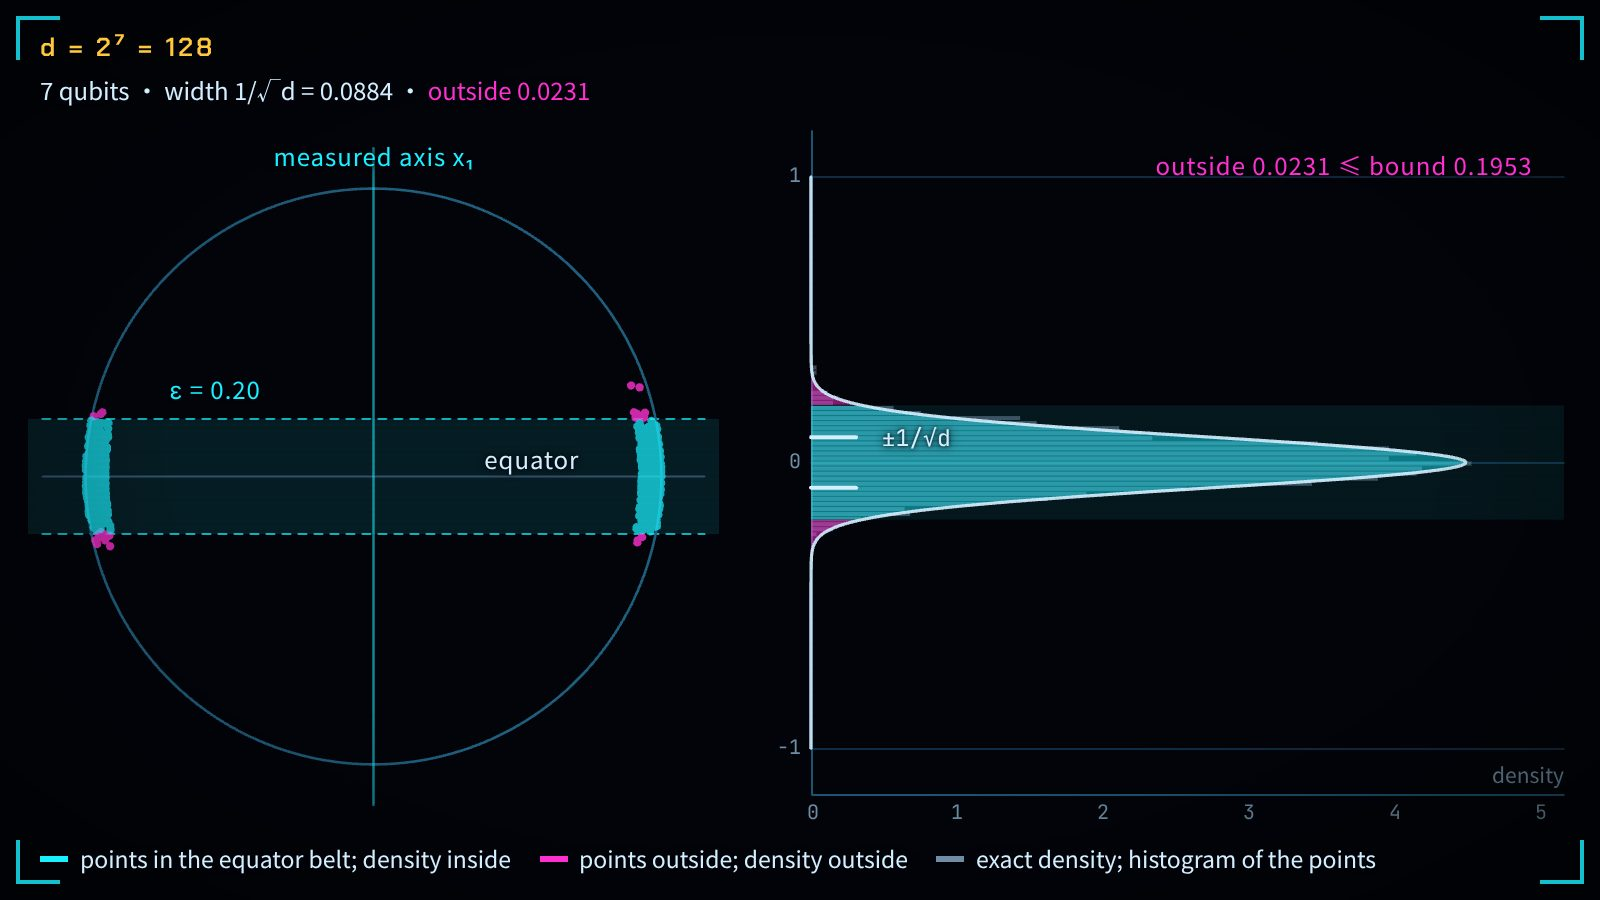
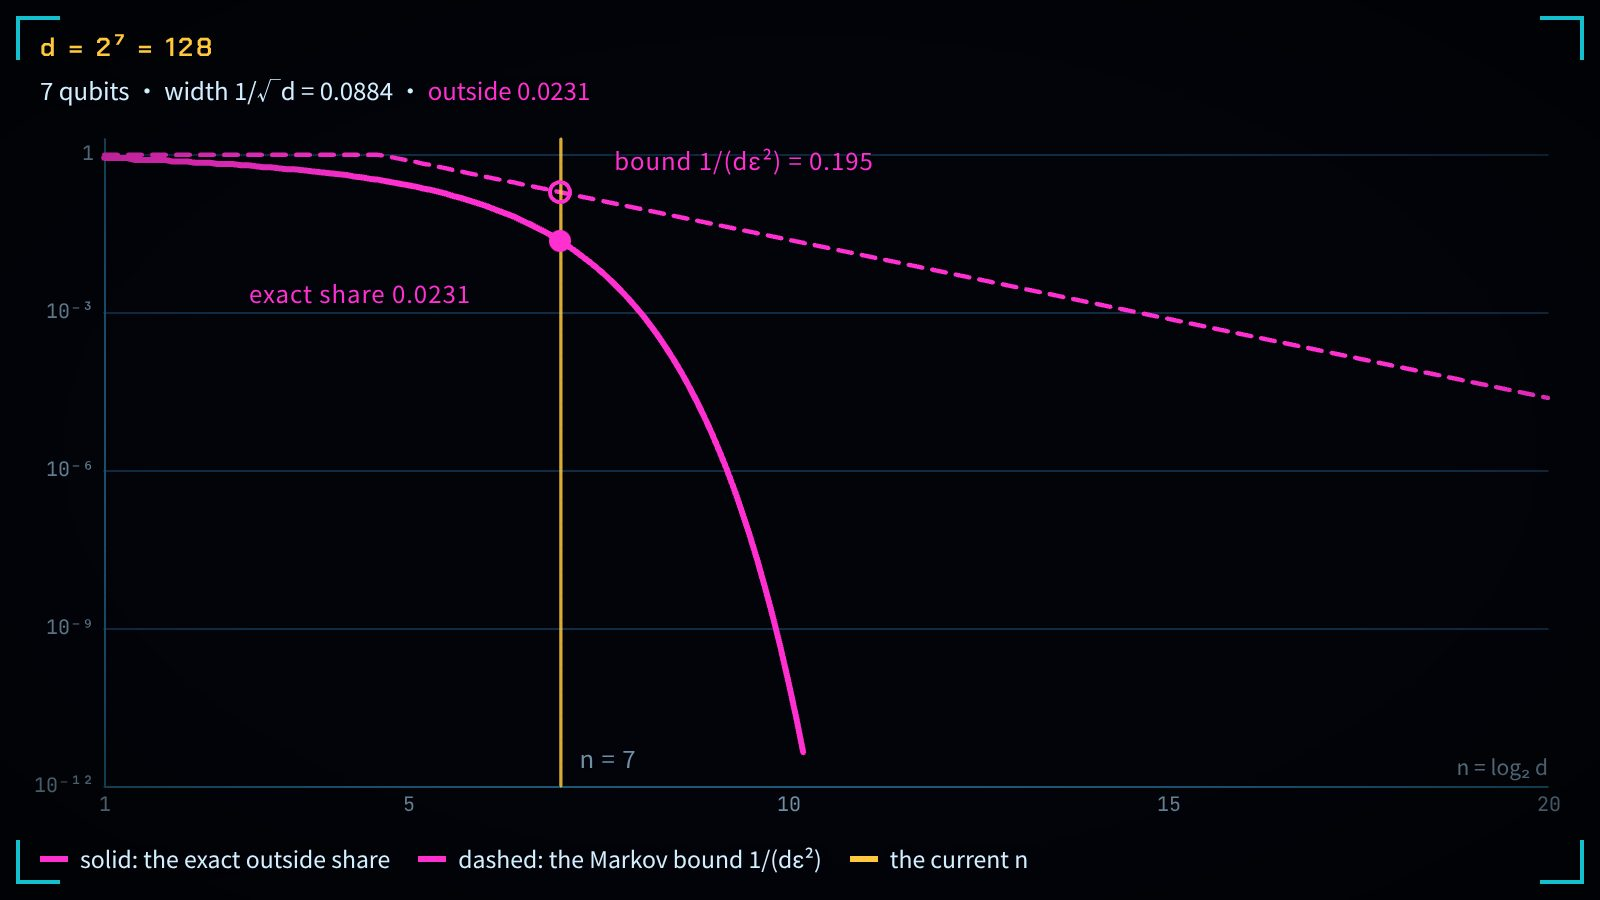
Chapter 12: the Markov card draws the share and the bound against n; one sentence between each pair of equator cards; the halving-spectrum card in place of plateau and tail

diff --git a/books/quantum-geometry/viz/equator-concentration/main.js b/books/quantum-geometry/viz/equator-concentration/main.js
@@ -61,7 +61,7 @@
   }
 
   /* ---------- state and samples ---------- */
-  const S = { t: 4, eps: 0.1, seed: 1 };
+  const S = { t: 4, eps: 0.1, seed: 1, scene: 'crowd' };   // scene: the dots and the density, or the share against n
   let UNI = null;
   function mulberry32(a) { return () => { a |= 0; a = (a + 0x6D2B79F5) | 0; let t = Math.imul(a ^ (a >>> 15), 1 | a); t = (t + Math.imul(t ^ (t >>> 7), 61 | t)) ^ t; return ((t ^ (t >>> 14)) >>> 0) / 4294967296; }; }
   function draw() {
@@ -209,13 +209,40 @@
     }
   }
 
+  /** The "bound" scene: the exact outside share and the Markov bound against n = log₂ d, on a log scale, one line
+      above the other; the amber line is the current n. */
+  const CURVE_Y = [1e-12, 2];
+  function drawCurve(W, H, F) {
+    const b = layout(W, H).c, top = b.y, bottom = H - (b.y + (boxes.side ? b.h : b.h + boxes.p.h + 8)), e = F.eps;
+    const g = kit.plot($('cv'), { x: [1, NMAX], y: CURVE_Y, logY: true, pad: [52, 26, top + 8, Math.max(bottom, 20) + 22], clear: false });
+    const words = !TRV.thumbMode;
+    g.axes({ yTicks: words ? [[1e-12, '10⁻¹²'], [1e-9, '10⁻⁹'], [1e-6, '10⁻⁶'], [1e-3, '10⁻³'], [1, '1']] : [], xTicks: words ? [1, 5, 10, 15, 20] : [], xLabel: words ? L('n = log₂ d', 'n = log₂ d') : '' });
+    const ex = [], bd = [];
+    for (let i = 0; i <= 190; i++) {
+      const n = 1 + 19 * i / 190, d = dOf(n), lo = lnOut(d, e);
+      ex.push([n, lo > Math.log(CURVE_Y[0]) ? Math.exp(lo) : null]); bd.push([n, Math.min(1, 1 / (d * e * e))]);
+    }
+    g.line(bd, P.magenta, { width: 2.2 * TH, dash: [7, 5] });
+    g.line(ex, P.magenta, { width: 3 * TH });
+    const n = F.n, ok = F.lnOut > Math.log(CURVE_Y[0]);
+    g.vline(n, P.amber, { alpha: 0.85, width: 1.6 * TH });
+    g.dot(n, Math.min(1, F.bound), P.magenta, 5 * TH, { ring: true, width: 2 });
+    if (ok) g.dot(n, F.out, P.magenta, 5.5 * TH);
+    if (words) {
+      stage.tag('cvb', [g.X(n), g.Y(Math.min(1, F.bound))], L(`上界 1/(dε²) = ${F.bound < 1e-3 ? share(Math.log(F.bound)) : fix(F.bound, 3)}`, `bound 1/(dε²) = ${F.bound < 1e-3 ? share(Math.log(F.bound)) : fix(F.bound, 3)}`), 'raw mg', { screen: true, dx: 92, dy: -16 });
+      if (ok) stage.tag('cve', [g.X(n), g.Y(F.out)], L(`精确份额 ${share(F.lnOut)}`, `exact share ${share(F.lnOut)}`), 'raw mg', { screen: true, dx: g.X(n) > 260 ? -100 : 78, dy: g.X(n) > 260 ? 26 : 16 });
+      stage.tag('cvn', [g.X(n), g.Y(CURVE_Y[0])], `n = ${fix(n, n % 1 ? 2 : 0)}`, 'raw am', { screen: true, dx: 24, dy: -14 });
+    }
+  }
   const stage = kit.stage3($('stage'), { canvas: $('cv'), rotate: false });
   function drawStage() {
     const cv = $('cv'), W = cv.clientWidth, H = cv.clientHeight, F = facts(), sm = samples();
     boxes = layout(W, H);
     stage.begin();
-    drawCircle(W, H, F, sm);
-    drawDensity(W, H, F, sm);
+    if (S.scene === 'curve') { LOUPE = null; drawCurve(W, H, F); } else {
+      drawCircle(W, H, F, sm);
+      drawDensity(W, H, F, sm);
+    }
     stage.end();
   }
 
@@ -256,7 +283,7 @@
       : L(`上界 1/(dε²) 只用到 E[x₁²] = 1/d，比实际份额大 ${F.lnOut > Math.log(1e-300) ? fix(F.bound / F.out, 1) : `10${String(Math.round(Math.log10(F.bound) - F.log10Out)).split('').map((c) => SUP[c] || c).join('')}`} 倍。`, `The bound 1/(dε²) uses only E[x₁²] = 1/d and is ${F.lnOut > Math.log(1e-300) ? fix(F.bound / F.out, 1) : `10${String(Math.round(Math.log10(F.bound) - F.log10Out)).split('').map((c) => SUP[c] || c).join('')}`} times the actual share.`);
     $('pillD').querySelector('strong').textContent = dName(d);
     $('pillOut').querySelector('strong').textContent = share(F.lnOut);
-    $('legend').innerHTML = [['cy', '赤道带里的点；带内的密度', 'points in the equator belt; density inside'], ['mg', '带外的点；带外的密度', 'points outside; density outside'], ['dm', '精确密度；点的直方图', 'exact density; histogram of the points']]
+    $('legend').innerHTML = (S.scene === 'curve' ? [['mg', '实线：带外的精确份额', 'solid: the exact outside share'], ['mg', '虚线：马尔可夫上界 1/(dε²)', 'dashed: the Markov bound 1/(dε²)'], ['am', '当前的 n', 'the current n']] : [['cy', '赤道带里的点；带内的密度', 'points in the equator belt; density inside'], ['mg', '带外的点；带外的密度', 'points outside; density outside'], ['dm', '精确密度；点的直方图', 'exact density; histogram of the points']])
       .map(([cl, zh, en]) => `<span><i class="sw ${cl}"></i>${L(zh, en)}</span>`).join('');
   }
 
@@ -275,6 +302,7 @@
 
   /* ---------- controls ---------- */
   const leave = () => cards.mark(null);
+  const sceneChips = kit.chips($('sceneChips'), 'scene', (v) => { leave(); S.scene = v; paint(); });
   const fEps = kit.field($('eps'), { fmt: (v) => fix(v, 2), onInput: (v) => { leave(); S.eps = v; paint(); } });
   const redraw = () => { leave(); S.seed++; draw(); smKey = ''; paint(); };
   $('redraw').addEventListener('click', redraw);
@@ -286,19 +314,19 @@
   const PRESETS = {
     three: { t: L3, eps: 0.1 },
     width: { t: 10, eps: 0.1 },
-    bound: { t: 7, eps: 0.2 },
+    bound: { t: 7, eps: 0.2, scene: 'curve' },
     twenty: { t: 20, eps: 0.1 }
   };
   const NOTES = {
     three: ['普通的三维球面，d = 3：圆上的点上下铺开，右边的密度是一条竖直的直线 1/2，直方图围着它起伏——点的高度 x₁ 在 −1 到 1 之间均匀分布。ε = 0.1 的赤道带里恰好是 10% 的点（青色），其余 90% 是品红。', 'The ordinary sphere, d = 3: the dots spread up and down the circle, and on the right the density is a vertical straight line at 1/2 with the histogram around it: the height x₁ is spread evenly between −1 and 1. The belt with ε = 0.1 holds exactly 10% of the points (cyan); the other 90% are magenta.'],
     width: ['维数从 2 一路升到 2¹⁰ = 1024：点越来越挤向赤道，鼓包越来越窄、越来越高，±1/√d 的短横线一起向赤道收拢。到 d = 1024 时宽度是 0.031，带外只剩 0.13%；鼓包薄得看不清，右上角的放大镜把赤道附近放大 32 倍，鼓包在那里仍是 ±1/√d 那么宽。', 'The dimension rises from 2 to 2¹⁰ = 1024: the dots crowd ever closer to the equator, the bump grows narrower and taller, and the ±1/√d ticks close in with it. At d = 1024 the width is 0.031 and only 0.13% lies outside; the bump is too thin to see, so the magnifier at the upper right enlarges the equator 32 times, and there it is still ±1/√d wide.'],
-    bound: ['d = 2⁷ = 128，带宽 ε = 0.2：品红的带外份额是 0.023，马尔可夫上界 1/(dε²) = 0.195 在它之上，大了八倍多。', 'd = 2⁷ = 128 with ε = 0.2: the magenta outside share is 0.023, and the Markov bound 1/(dε²) = 0.195 lies above it, more than eight times larger.'],
+    bound: ['带宽 ε = 0.2，横轴是 n = log₂ d，纵轴取对数：品红实线是带外的精确份额，品红虚线是马尔可夫上界 1/(dε²)，虚线处处压在实线之上。琥珀色的线停在 n = 7（d = 128）：份额 0.023，上界 0.195，大了八倍多。', 'Belt half-width ε = 0.2, n = log₂ d across, a log scale up the side: the solid magenta line is the exact outside share and the dashed magenta line the Markov bound 1/(dε²), lying above the solid one everywhere. The amber line stops at n = 7 (d = 128): share 0.023, bound 0.195, more than eight times larger.'],
     twenty: ['二十个量子比特，d = 2²⁰ = 1,048,576，ε = 0.1：所有的点都落在赤道上，密度缩成赤道上的一根细针；右上角的放大镜把赤道附近放大 1024 倍，针原来是一个宽 ±1/√d 的鼓包，带边 ±ε 远在窗外。带外份额的马尔可夫上界是 9.54 × 10⁻⁵，精确值约为 3 × 10⁻²²⁹¹。', 'Twenty qubits, d = 2²⁰ = 1,048,576, ε = 0.1: every dot lands on the equator and the density shrinks to a thin needle there; the magnifier at the upper right enlarges the equator 1024 times, and the needle turns out to be a bump ±1/√d wide, with the belt edges ±ε far outside the window. The Markov bound on the outside share is 9.54 × 10⁻⁵; the exact share is about 3 × 10⁻²²⁹¹.']
   };
   let booting = true;
   function applyPreset(id) {
     const p = PRESETS[id], still = p.t;
-    S.eps = p.eps; fEps.set(p.eps);
+    S.eps = p.eps; fEps.set(p.eps); S.scene = p.scene || 'crowd'; sceneChips.set(S.scene, true);
     clock.pause(); stopAt = null;
     clock.set(still - 1);
     // a still (cover, cited figure shot) and the opening view of the full page show the card's telling frame;
@@ -316,7 +344,7 @@
 
   /* ---------- probe, cover, start ---------- */
   window.EQUATOR_DEBUG = {
-    get state() { const F = facts(); return Object.assign({ t: clock.t, max: clock.max, playing: clock.playing, preset: cards.current, seed: S.seed, loupe: LOUPE && Object.assign({}, LOUPE) }, F); },
+    get state() { const F = facts(); return Object.assign({ scene: S.scene, t: clock.t, max: clock.max, playing: clock.playing, preset: cards.current, seed: S.seed, loupe: LOUPE && Object.assign({}, LOUPE) }, F); },
     samples: () => samples().x.slice(),
     density: (x) => density(dOf(S.t), x),
     loupeDensity: (z) => { const d = dOf(S.t); return density(d, z / Math.sqrt(d)) / Math.sqrt(d); },

diff --git a/books/quantum-geometry/viz/equator-concentration/index.html b/books/quantum-geometry/viz/equator-concentration/index.html
@@ -63,6 +63,10 @@
       <div class="scan"></div><div class="vig"></div>
       <span class="bracket tl"></span><span class="bracket tr"></span><span class="bracket bl"></span><span class="bracket br"></span>
       <div class="hud-tl"><span class="big" id="hudBig"></span><span class="sub" id="hudSub"></span></div>
+      <div class="hud-tr chips" id="sceneChips" role="group" aria-label="场景" data-aria-en="Scene">
+        <button class="chip" data-scene="crowd" aria-pressed="true"><span class="zh">点与密度</span><span class="en">Dots</span></button>
+        <button class="chip" data-scene="curve" aria-pressed="false"><span class="zh">份额与上界</span><span class="en">Share</span></button>
+      </div>
       <div class="hud-bl" id="legend"></div>
     </div>
     <div class="tour" id="tour">

diff --git a/books/quantum-geometry/en/ch12-measurement-computation-and-gradients.md b/books/quantum-geometry/en/ch12-measurement-computation-and-gradients.md
@@ -185,6 +185,8 @@ When we scale from a single qubit to $n$ qubits with dimension $d = 2^n$, why do
 **On the ordinary sphere the heights of points are spread evenly.** At $d = 3$ the dots spread up and down the circle, and on the right the exact density is a vertical straight line at $1/2$; the equator belt with $\varepsilon = 0.1$ holds exactly 10% of the points (cyan), and the other 90% are magenta. The even spread of heights is a classical result of Archimedes, not formalized in this book.
 :::
 
+As the dimension rises from $d = 3$, the same belt with $\varepsilon = 0.1$ holds more and more of the points.
+
 ::: {.viz src="equator-concentration" preset="width" height="500"}
 **The higher the dimension, the more the points crowd onto the equator.** The rail raises the dimension from $d = 2$ to $d = 2^{10}$: the dots crowd onto the equator perpendicular to the measured axis, the bump on the right grows narrower and taller, and the two short ticks at $\pm 1/\sqrt{d}$ close in with it; at $d = 1024$ only 0.13% lies outside, and the bump is too thin to see, so the magnifier at the upper right enlarges the equator 32 times: there it is still $\pm 1/\sqrt{d}$ wide. The width $1/\sqrt{d}$ comes from $\mathbb{E}[x_1^2] = 1/d$ ([@rem-sphere-equator-markov-literature]).
 :::
@@ -200,8 +202,10 @@ At $n = 20$ qubits ($d = 1{,}048{,}576$) and $\varepsilon = 0.1$, at least $99.9
 :::
 
 ::: {.viz src="equator-concentration" preset="bound" height="500"}
-**The Markov bound always lies above the actual share.** At $d = 2^7 = 128$ and $\varepsilon = 0.2$ the magenta outside share is 0.023, and the bound $1/(d\varepsilon^2) = 0.195$ lies above it, more than eight times larger ([@rem-sphere-equator-markov-literature]).
+**The Markov bound always lies above the actual share.** With $\varepsilon = 0.2$, $n = \log_2 d$ across and a log scale up the side: the solid magenta line is the exact outside share and the dashed magenta line the bound $1/(d\varepsilon^2)$, lying above the solid one everywhere. The amber line stops at $d = 2^7 = 128$: share 0.023, bound 0.195, more than eight times larger ([@rem-sphere-equator-markov-literature]).
 :::
+
+At $d = 2^{20}$, with the belt narrowed to $\varepsilon = 0.1$, this bound is the $9.54 \times 10^{-5}$ of the remark above.
 
 ::: {.viz src="equator-concentration" preset="twenty" height="500"}
 **Twenty qubits: every point lies in the narrow equator belt.** At $d = 2^{20}$ and $\varepsilon = 0.1$ every dot lands on the equator and the density shrinks to a thin needle there; the magnifier at the upper right enlarges the equator 1024 times, and the needle turns out to be a bump $\pm 1/\sqrt{d}$ wide, with the belt edges $\pm\varepsilon$ far outside the window. The Markov bound gives $9.54 \times 10^{-5}$; the exact share, computed by the page from the incomplete beta function, is about $3 \times 10^{-2291}$. This is concentration of measure on the restricted real-amplitude model, not a law for circuit gradients ([@rem-mbqc-gradients-literature]).
@@ -228,12 +232,8 @@ $$
 Summability of $\lambda$ with $\tau > 0$ implies that only finitely many indices $j \in \mathbb{N}$ can satisfy $\tau \le \lambda_j$. Summing $\tau \le \lambda_j$ over the finite set $S_\tau$ gives $\operatorname{ncard}(S_\tau)\,\tau \le \sum_{j \in S_\tau} \lambda_j \le \sum_{j=0}^\infty \lambda_j = \frac{R W}{\pi}$, and dividing by $\tau > 0$ yields the stated bound. The full proof is checked by the Lean kernel.
 :::
 
-::: {.viz src="eth-horizon-crossover" preset="plateau" height="500"}
-**A plateau: few modes carry the weight.** The first few modes are close to $1$, and from the ninth on the spectrum drops to zero. At the amber threshold $\tau = 0.5$, eight cyan modes clear the line while the magenta wall stands at $RW/(\pi\tau) = 16$ (the spectrum on the page sums to the trace budget $RW/\pi$): the count stays short of the wall, which is [@cor-finite-trace-mode-budget].
-:::
-
-::: {.viz src="eth-horizon-crossover" preset="tail" height="500"}
-**Lower threshold: more modes, never past the wall.** Switch to a power law with a long tail and lower the amber threshold all the way: more and more cyan bars clear the line, the magenta wall $RW/(\pi\tau)$ retreats as well, and the bars never reach it (at $\tau = 0.07$, six modes clear the line and the wall stands at $37.4$).
+::: {.viz src="eth-horizon-crossover" preset="geometric" height="500"}
+**The geometric spectrum: three clear the line, the wall stands at 8.** The geometric spectrum $\lambda_j = 2^{-(j+1)}$ of step 5 of [@ex-cluster-shift-and-gradient], whose total is the trace budget $RW/\pi = 1$. At the amber threshold $\tau = \frac{1}{8}$ three cyan bars clear the line, $j = 0, 1, 2$, each with an amber notch at the height $\tau$ to show that it pays at least $\tau$; the notches add up to no more than the whole budget, so the count $3$ stays short of the magenta wall $RW/(\pi\tau) = 8$, which is [@cor-finite-trace-mode-budget].
 :::
 
 Note that [@cor-finite-trace-mode-budget] does not separately assume $R > 0$ or $W > 0$ (the trace identity $\sum_j \lambda_j = RW/\pi$ with $\lambda_j \ge 0$ implies only that the product satisfies $R W \ge 0$, not that $R \ge 0$ and $W \ge 0$ individually — for instance, $R = -\pi$ and $W = -1$ satisfy all hypotheses), and it concerns a sufficient spectral superlevel counting bound rather than learnability, uniform sphere measure, random-circuit gradients, or a barren-plateau tail bound.

diff --git a/books/quantum-geometry/zh/ch12-measurement-computation-and-gradients.md b/books/quantum-geometry/zh/ch12-measurement-computation-and-gradients.md
@@ -222,6 +222,8 @@ $$
 **普通的三维球面上，点的高度均匀分布。** $d = 3$：圆上的点上下铺开，右边的精确密度是一条竖直的直线 $1/2$；$\varepsilon = 0.1$ 的赤道带里恰好是 10% 的点（青色），其余 90% 是品红的点。高度均匀是阿基米德的经典结果，未在本书形式化。
 :::
 
+从 $d = 3$ 往上升维数，同一条 $\varepsilon = 0.1$ 的赤道带装下的点越来越多。
+
 ::: {.viz src="equator-concentration" preset="width" height="500"}
 **维数越高，点越挤向赤道。** 时间轴把维数从 $d = 2$ 升到 $d = 2^{10}$：圆上的点挤向垂直于测量轴的赤道，右边的鼓包变窄变高，两道短横线 $\pm 1/\sqrt{d}$ 一起收拢；到 $d = 1024$ 时带外只剩 0.13%，鼓包薄得看不清，右上角的放大镜把赤道附近放大 32 倍，鼓包在那里仍宽 $\pm 1/\sqrt{d}$。宽度 $1/\sqrt{d}$ 来自 $\mathbb{E}[x_1^2] = 1/d$（[@rem-sphere-equator-markov-literature]）。
 :::
@@ -243,8 +245,10 @@ $$
 :::
 
 ::: {.viz src="equator-concentration" preset="bound" height="500"}
-**马尔可夫上界总在实际份额之上。** $d = 2^7 = 128$、$\varepsilon = 0.2$：品红的带外份额是 0.023，上界 $1/(d\varepsilon^2) = 0.195$ 在它之上，大了八倍多（[@rem-sphere-equator-markov-literature]）。
+**马尔可夫上界总在实际份额之上。** 带宽 $\varepsilon = 0.2$，横轴是 $n = \log_2 d$，纵轴取对数：品红实线是带外的精确份额，品红虚线是上界 $1/(d\varepsilon^2)$，虚线处处压在实线之上。琥珀色的线停在 $d = 2^7 = 128$：份额 0.023，上界 0.195，大了八倍多（[@rem-sphere-equator-markov-literature]）。
 :::
+
+维数升到 $d = 2^{20}$、带宽收窄到 $\varepsilon = 0.1$ 时，这条上界给出的就是上面注记里的 $9.54 \times 10^{-5}$。
 
 ::: {.viz src="equator-concentration" preset="twenty" height="500"}
 **二十个量子比特：所有的点都在赤道窄带里。** $d = 2^{20}$、$\varepsilon = 0.1$：圆上的点全落在赤道上，密度缩成赤道上的一根细针；右上角的放大镜把赤道附近放大 1024 倍，针原来是一个宽 $\pm 1/\sqrt{d}$ 的鼓包，带边 $\pm\varepsilon$ 远在窗外。马尔可夫上界给出 $9.54 \times 10^{-5}$，页面用不完全贝塔函数算出的精确份额约为 $3 \times 10^{-2291}$。这是受限实振幅模型上的测度集中，不是电路梯度定律（[@rem-mbqc-gradients-literature]）。
@@ -277,12 +281,8 @@ $$
 两边同除以正数 $\tau > 0$，即得 $\operatorname{ncard}(S_\tau) \le \frac{R W}{\pi \tau}$。完整证明由 Lean 内核检查。
 :::
 
-::: {.viz src="eth-horizon-crossover" preset="plateau" height="500"}
-**平台谱：承重的模态屈指可数。** 前几个模态接近 $1$，第九个起迅速掉到零。琥珀色的阈值 $\tau = 0.5$ 下，青色的过线模态有 $8$ 个，品红的墙在 $RW/(\pi\tau) = 16$（页面上这条谱的总和就是迹预算 $RW/\pi$）：个数不超过墙，就是 [@cor-finite-trace-mode-budget]。
-:::
-
-::: {.viz src="eth-horizon-crossover" preset="tail" height="500"}
-**阈值降低：个数涨，仍不过墙。** 换成拖着长尾的幂律谱，再把琥珀色的阈值一路降低：过线的青色柱子越来越多，品红的墙 $RW/(\pi\tau)$ 也跟着后退，柱子始终到不了墙（$\tau = 0.07$ 时 $6$ 个过线，墙在 $37.4$）。
+::: {.viz src="eth-horizon-crossover" preset="geometric" height="500"}
+**几何谱：过线三根，墙在 8。** 用 [@ex-cluster-shift-and-gradient] 第 5 步的几何谱 $\lambda_j = 2^{-(j+1)}$，总和就是迹预算 $RW/\pi = 1$。琥珀色的阈值 $\tau = \frac{1}{8}$ 下，过线的青色柱子是 $j = 0, 1, 2$ 三根，每根在高度 $\tau$ 处有一道琥珀色刻线，表示它至少付出 $\tau$；三道刻线加起来不超过总预算，所以过线的个数 $3$ 到不了品红的墙 $RW/(\pi\tau) = 8$，这就是 [@cor-finite-trace-mode-budget]。
 :::
 
 请严格区分 [@cor-finite-trace-mode-budget] 与随机电路贫瘠高原的边界：[@cor-finite-trace-mode-budget] 不单独假定 $R > 0$ 或 $W > 0$（由 $\lambda_j \ge 0$ 与 $\sum_j \lambda_j = RW/\pi$ 仅蕴含乘积非负 $R W \ge 0$，而不蕴含 $R \ge 0$ 与 $W \ge 0$ 各自非负，例如 $R = -\pi, W = -1$ 同样满足全部前提），它证明的是**给定非负可和序列迹等式 $\sum_j \lambda_j = RW/\pi$ 下的谱超水平集有限计数上界**，既不是可学习性的必要条件，也不是均匀球面测度集中或随机量子电路梯度方差定理本身。
